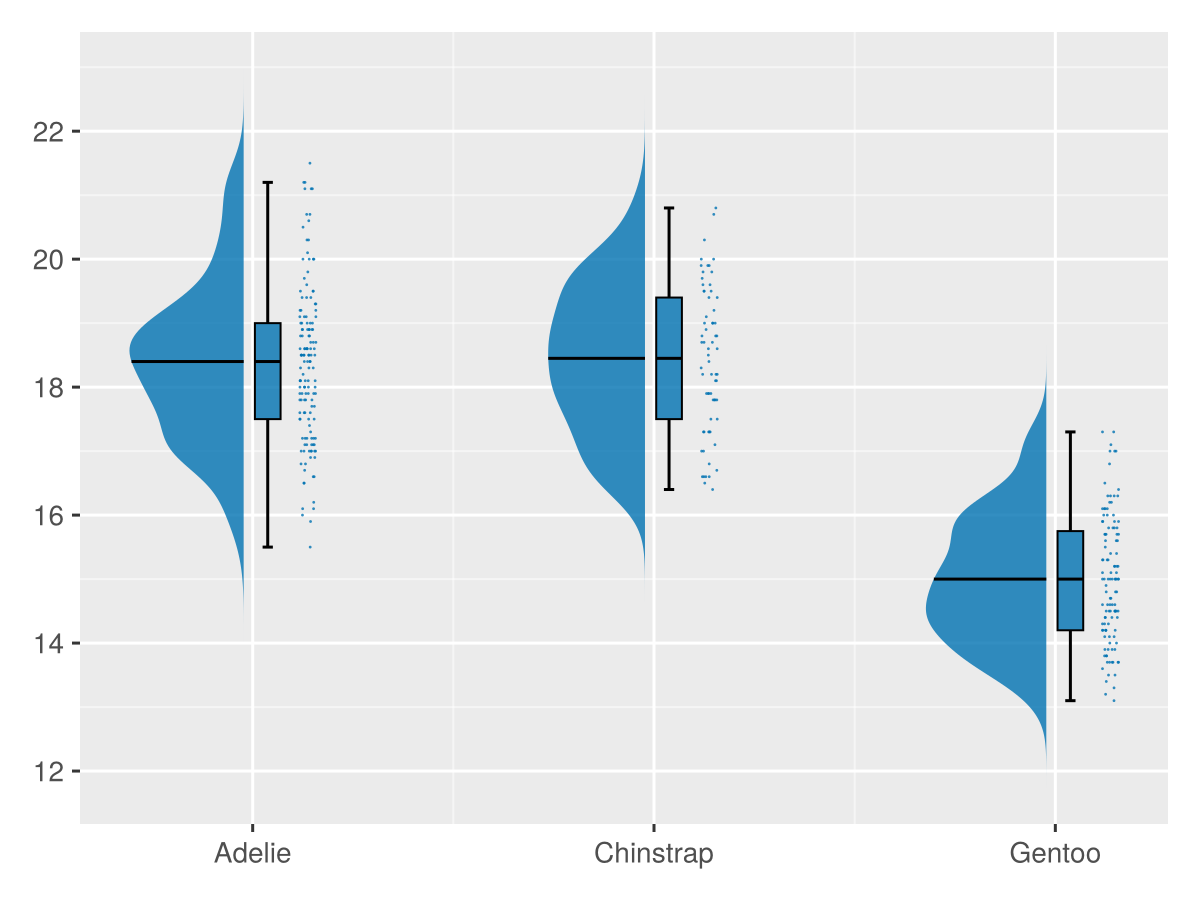
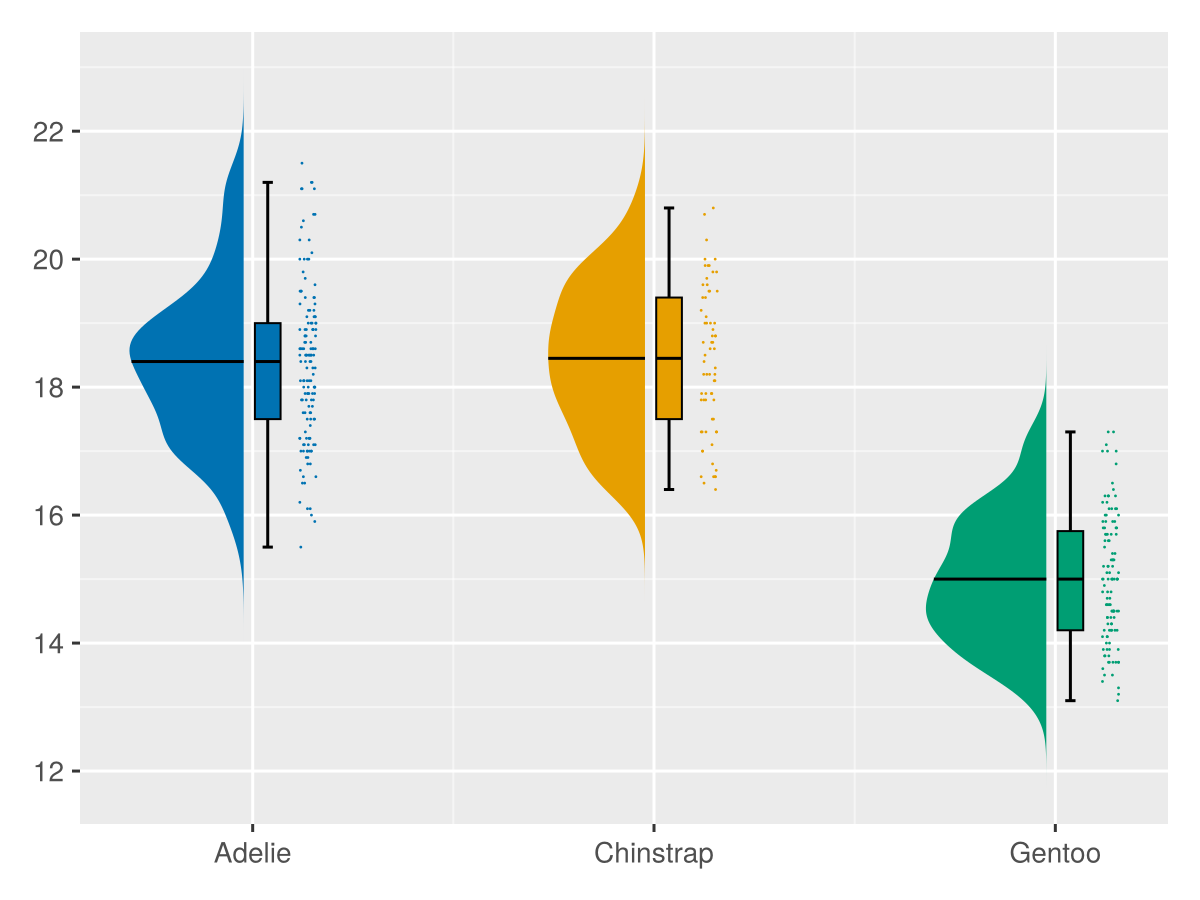
raincloud example

Changed region(s): [[0.0925, 0.1556, 0.2775, 0.6222], [0.7708, 0.4356, 0.925, 0.8089], [0.4317, 0.1867, 0.6167, 0.5911]]

diff --git a/README.md b/README.md
@@ -147,11 +147,11 @@ ggplot(df, yticks = (1:3, ["bottom", "middle", "top"])) +
 
 ### Easy Extensions with Makie
 
-Add basic support for any Makie plot using `geom_template(name, required_aes, makie_plot)`:
+Add basic support for any Makie plot using `geom_template(name, required_aes, makie_plot)`. It will inherit support most optional aesthetics and arguments automatically:
 
 ```julia
 geom_raincloud = geom_template("geom_raincloud", ["x", "y"], :RainClouds)
-ggplot(penguins) + geom_raincloud(aes(x = :species, y = :bill_depth_mm))
+ggplot(penguins) + geom_raincloud(aes(x = :species, y = :bill_depth_mm, color = :species))
 ```
 ![](assets/raincloud.png)
 
